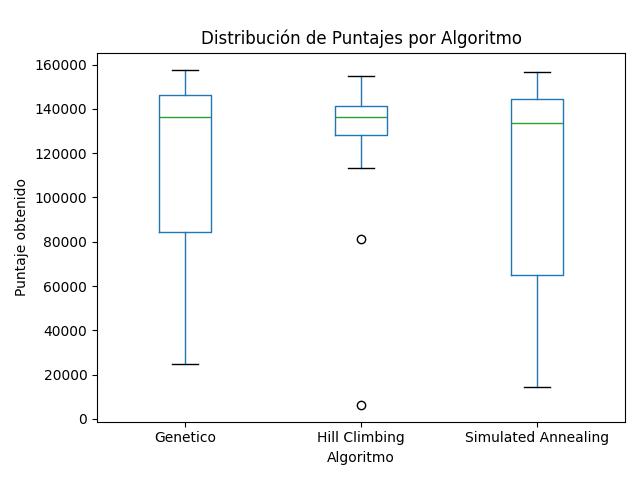
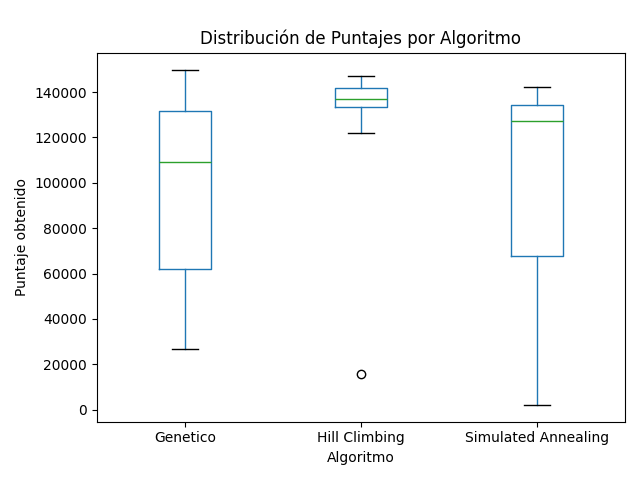
actualizo graficos

diff --git a/src/pruebas/graficar.py b/src/pruebas/graficar.py
@@ -11,9 +11,15 @@ def graficar():
 
     #
     grafico_dispersion(os.path.join(carpeta_dir, "puntaje_vs_tiempo.png"))
+    #agregado
+    grafico_dispersion_con_desv(os.path.join(carpeta_dir, "puntaje_vs_tiempo_con_desv.png"))
     grafico_puntaje_total(os.path.join(carpeta_dir, "puntaje_total.png"))
     grafico_nivel_puntaje(os.path.join(carpeta_dir, "nivel_vs_puntaje.png"))
+    #agregado
+    grafico_nivel_puntaje_con_desv(os.path.join(carpeta_dir, "nivel_vs_puntaje_con_desv.png"))
     grafico_lineas_eliminadas(os.path.join(carpeta_dir, "lineas_eliminadas.png"))
+    #agregado
+    grafico_lineas_eliminadas_con_errorbars(os.path.join(carpeta_dir,"lineas_eliminadas_con_errorbars.png"))
     grafico_consistencia(os.path.join(carpeta_dir, "consistencia.png"))
     grafico_piezas_lineas(os.path.join(carpeta_dir, "piezas_lineas.png"))
     heatmap(os.path.join(carpeta_dir, "heatmap.png"))
@@ -49,6 +55,53 @@ def grafico_dispersion(imagen):
     plt.tight_layout()
     plt.savefig(imagen)
     plt.close()
+
+def grafico_dispersion_con_desv(imagen):
+    # Cargar datos
+    df = pd.read_csv('resultados_algoritmos.csv', sep='|')
+
+    # Calcular promedio y desviación estándar
+    stats = df.groupby('Algoritmo')[['Puntaje', 'Tiempo promedio']].agg(['mean', 'std'])
+    stats.columns = ['Puntaje_prom', 'Puntaje_std', 'Tiempo_prom', 'Tiempo_std']
+    stats = stats.reset_index()
+
+    # Configuración visual
+    colores = {'Hill Climbing':'blue', 'Simulated Annealing':'green', 'Genetico':'red'}
+    markers = {'Hill Climbing':'o', 'Simulated Annealing':'s', 'Genetico':'^'}
+
+    plt.figure(figsize=(12, 6))
+
+    for _, row in stats.iterrows():
+        plt.errorbar(
+            row['Tiempo_prom'],
+            row['Puntaje_prom'],
+            xerr=row['Tiempo_std'],
+            yerr=row['Puntaje_std'],
+            fmt=markers[row['Algoritmo']],
+            ecolor='black',
+            elinewidth=1.2,
+            capsize=5,
+            markersize=12,
+            color=colores[row['Algoritmo']]
+        )
+
+        plt.text(
+            row['Tiempo_prom'],
+            row['Puntaje_prom'] + 150,
+            row['Algoritmo'],
+            fontsize=11,
+            ha='center',
+            fontweight='bold'
+        )
+
+    plt.xlabel('Tiempo promedio de decisión (s)')
+    plt.ylabel('Puntaje obtenido')
+    plt.title('Puntaje vs Tiempo por Algoritmo (promedio ± desviación estándar)', pad=20)
+    plt.grid(True, linestyle='--', alpha=0.4)
+    plt.tight_layout()
+    plt.savefig(imagen)
+    plt.close()
+
 
 def grafico_puntaje_total(imagen):
     
@@ -95,6 +148,50 @@ def grafico_nivel_puntaje(imagen):
     plt.savefig(imagen)
     plt.close()
 
+def grafico_nivel_puntaje_con_desv(imagen):
+    df = pd.read_csv("resultados_algoritmos.csv", sep='|')
+
+    # Promedio y std
+    stats = df.groupby('Algoritmo')[['Nivel', 'Puntaje']].agg(['mean', 'std'])
+    stats.columns = ['Nivel_promedio', 'Nivel_std', 'Puntaje_promedio', 'Puntaje_std']
+    stats = stats.reset_index()
+
+    colores = {'Hill Climbing':'blue', 'Simulated Annealing':'green', 'Genetico':'red'}
+
+    plt.figure(figsize=(10, 6))
+
+    for _, row in stats.iterrows():
+        plt.errorbar(
+            row['Nivel_promedio'],
+            row['Puntaje_promedio'],
+            xerr=row['Nivel_std'],
+            yerr=row['Puntaje_std'],
+            fmt='o',
+            ecolor='black',
+            elinewidth=1.2,
+            capsize=5,
+            markersize=12,
+            color=colores[row['Algoritmo']]
+        )
+
+        # Etiqueta del algoritmo
+        plt.text(
+            row['Nivel_promedio'] + 0.03,
+            row['Puntaje_promedio'] + 200,
+            row['Algoritmo'],
+            fontsize=11,
+            fontweight='bold'
+        )
+
+    plt.xlabel('Nivel alcanzado (promedio)')
+    plt.ylabel('Puntaje obtenido (promedio)')
+    plt.title('Nivel vs Puntaje por Algoritmo (promedio ± desviación estándar)')
+    plt.grid(True, linestyle='--', alpha=0.4)
+    plt.tight_layout()
+    plt.savefig(imagen)
+    plt.close()
+
+
 def grafico_lineas_eliminadas(imagen):
     # Cargar CSV
     df = pd.read_csv("tabla_promedio_eliminaciones.csv")
@@ -122,6 +219,45 @@ def grafico_lineas_eliminadas(imagen):
     plt.tight_layout()
     plt.savefig(imagen)
     plt.close()
+
+def grafico_lineas_eliminadas_con_errorbars(imagen):
+    # leer medias
+    df_media = pd.read_csv("tabla_promedio_eliminaciones.csv")
+    # leer desviaciones estándar
+    df_std = pd.read_csv("tabla_desviacion_eliminaciones.csv")
+
+    tipos = ['Singles', 'Doubles', 'Triples', 'Tetrises']
+    algoritmos = df_media.columns[1:]
+
+    x = np.arange(len(algoritmos)) * 2
+    width = 0.3
+
+    fig, ax = plt.subplots(figsize=(10,6))
+
+    for i, tipo in enumerate(tipos):
+        valores = df_media.loc[df_media['Métrica'] == tipo, algoritmos].values.flatten()
+        errores = df_std.loc[df_std['Métrica'] == tipo, algoritmos].values.flatten()
+
+        ax.bar(
+            x + i*width - (width*1.5),
+            valores,
+            width,
+            yerr=errores,
+            capsize=5,
+            label=tipo
+        )
+
+    ax.set_xlabel('Algoritmo')
+    ax.set_ylabel('Promedio por partida')
+    ax.set_title('Promedio de Eliminaciones por Tipo y Algoritmo (con Desviación Estándar)')
+    ax.set_xticks(x)
+    ax.set_xticklabels(algoritmos)
+    ax.legend(title='Tipo de Eliminación')
+
+    plt.tight_layout()
+    plt.savefig(imagen)
+    plt.close()
+
 
 def grafico_consistencia(imagen):
 

diff --git a/src/pruebas/tablas.py b/src/pruebas/tablas.py
@@ -52,6 +52,47 @@ def promedio_de_eliminaciones():
 
     tabla.to_csv("tabla_promedio_eliminaciones.csv")
 
+def estadisticas_eliminaciones():
+    df = pd.read_csv("resultados_algoritmos.csv", sep='|')
+
+    columnas = ['Singles', 'Doubles', 'Triples', 'Tetrises']
+
+    # medias por algoritmo
+    medias = df.groupby("Algoritmo")[columnas].mean().T
+    medias.index.name = "Métrica"
+    medias.to_csv("tabla_promedio_eliminaciones.csv")
+
+    # desviaciones estándar por algoritmo
+    desvios = df.groupby("Algoritmo")[columnas].std().T
+    desvios.index.name = "Métrica"
+    desvios.to_csv("tabla_desviacion_eliminaciones.csv")
+
+def tabla_promedio_desviacion_nivel_puntaje():
+    df = pd.read_csv("resultados_algoritmos.csv", sep='|')
+
+    # Calcular promedio y desviación estándar
+    tabla = df.groupby('Algoritmo')[['Nivel', 'Puntaje']].agg(['mean', 'std'])
+
+    # Acomodar formato
+    tabla.columns = ['Nivel_promedio', 'Nivel_std', 'Puntaje_promedio', 'Puntaje_std']
+    tabla = tabla.reset_index()
+
+    # Guardar CSV
+    tabla.to_csv("tabla_nivel_puntaje.csv", index=False)
+
+    return tabla
+
+def tabla_puntaje_tiempo():
+    df = pd.read_csv("resultados_algoritmos.csv", sep='|')
+
+    tabla = df.groupby("Algoritmo")[["Puntaje", "Tiempo promedio"]].agg(['mean', 'std'])
+    tabla.columns = ["Puntaje_promedio", "Puntaje_std", "Tiempo_promedio", "Tiempo_std"]
+    tabla = tabla.reset_index()
+
+    tabla.to_csv("tabla_puntaje_tiempo.csv", index=False)
+    return tabla
+
+
 def consistencia():
     # promedio, desv estandarm coeficiente de variacion de los puntajes
     # cv bajo = resultados mas consistentes

diff --git a/src/main.py b/src/main.py
@@ -7,7 +7,8 @@ import random
 def main():
     
     # algoritmos
-    algoritmos = ["Hill Climbing", "Simulated Annealing", "Genetico"]
+    #algoritmos = ["Hill Climbing", "Simulated Annealing", "Genetico"]
+    algoritmos = ["Simulated Annealing", "Genetico"]
     piezas_totales = 400
     resultados_totales = []
     semillas = random.sample(range(0,1000000),15)
@@ -24,7 +25,13 @@ def main():
     registrar_resultados(resultados_totales)
     tabla.consistencia()
     tabla.promedio_de_eliminaciones()
+    #agregado
+    tabla.estadisticas_eliminaciones()
+    #agregado
+    tabla.tabla_promedio_desviacion_nivel_puntaje()
     tabla.relacion_piezas_lineas()
+    #agregado
+    tabla.tabla_puntaje_tiempo()
     tabla.promedios()
     
     graficar()
